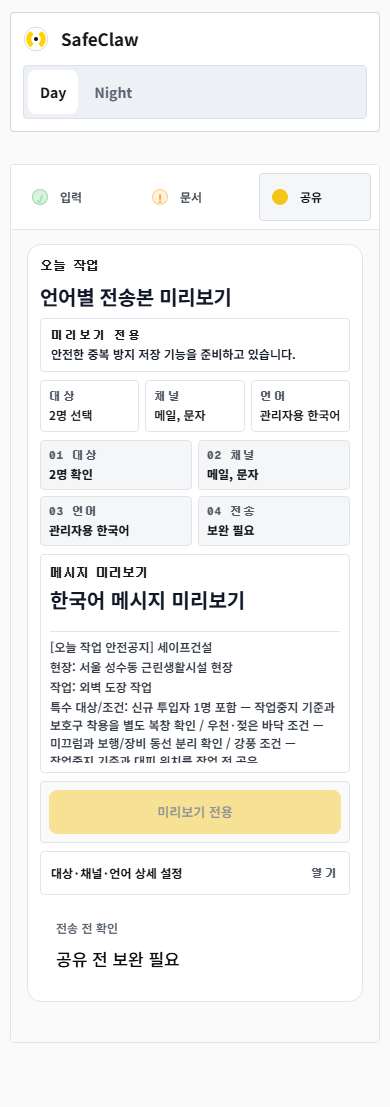
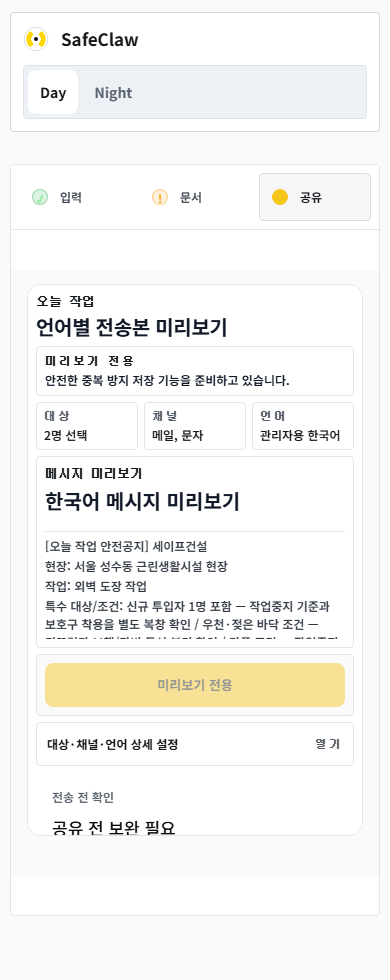
chore: record live mobile share verification

diff --git a/evaluation/share-mobile-stage-rail-collapse-2026-07-21/report.md b/evaluation/share-mobile-stage-rail-collapse-2026-07-21/report.md
@@ -1,16 +1,18 @@
 # Share Mobile Stage Rail Collapse Gate
 
-Verdict: `PASS_CURRENT_SOURCE`
+Verdict: `PASS_LIVE_PRODUCTION`
 
 Source/product commit: `2d173b48d35c9e7936d2656ddfb2dbf8ec5097f4`
 
-This is current-source evidence only. Production live geometry is not claimed until `/api/build-info` advances to this commit or a later deployed commit and the live browser probe is rerun.
+Live production now reports evidence commit `3b86df0135f54076d93a91c119c8c4237c43ed2a`, which includes this product commit. The live browser geometry probe was rerun against `https://www.safeclaw.kr`.
 
 ## Structural Decision
 
 Route splitting alone is not accepted as the UX fix. It helps orientation, but `/share` still needs a first-viewport cockpit with bounded or collapsed secondary details. This wave removes the duplicate mobile stage rail from the default mobile cockpit, keeps the selected summary/preview/CTA/detail toggle first-viewport visible, and preserves desktop staged composition.
 
 ## Current-Source Geometry
+
+The same geometry was rechecked against live production after deployment catch-up.
 
 Mobile `/workspace?share`, 390x844:
 
@@ -42,6 +44,7 @@ The fixture proves UI containment only. It does not claim real provider delivery
 - `npm.cmd test -- tests\workspace-share-mobile-browser.test.ts -t "standalone dispatch|keeps generated provider-result details" --maxWorkers=1 --fileParallelism=false --hookTimeout=180000` -> PASS, 1 file / 3 passed / 1 skipped
 - `npm.cmd test -- tests\workspace-share-simplification.test.ts --maxWorkers=1 --fileParallelism=false` -> PASS, 1 file / 11 passed
 - `npm.cmd run typecheck` -> PASS
+- `node evaluation\workspace-docs-share-production-gate-2026-07-20\run-current-geometry-probe.mjs` with `SAFECLAW_BASE_URL=https://www.safeclaw.kr` -> PASS
 
 ## Scope And Debt
 
@@ -54,6 +57,5 @@ Closed in this wave:
 
 Still open:
 
-- Live production verification after deployment marker catch-up.
 - A stricter exact-one-viewport mobile Share route, if product acceptance requires it.
 - Real provider dispatch, which remains gated by the separate persistent idempotency/provider-result ledger approval path.
